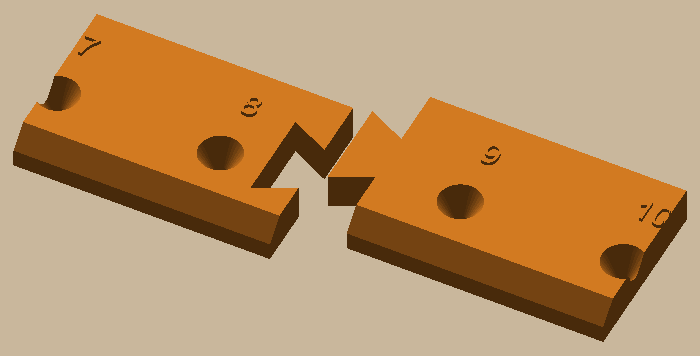
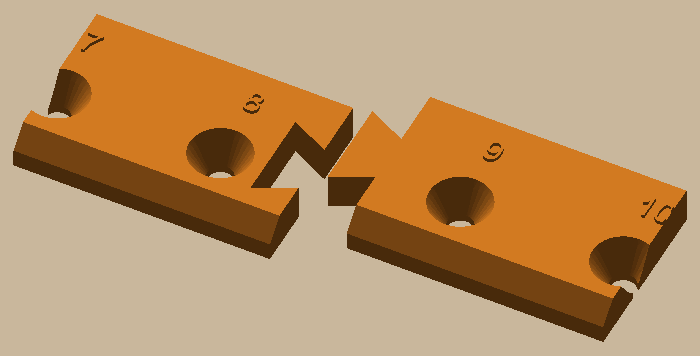
Ceiling gauge 6 mm thick with tight dovetails; pencil holes a nail pokes through, in both jigs
cadkit.shapes.pencil_hole: a 4 mm throat at the work under a guiding cone, shared by the
circle jig and the railroad's ceiling gauge.

diff --git a/examples/near-ceiling-track/tests/test_ceiling_gauge.py b/examples/near-ceiling-track/tests/test_ceiling_gauge.py
@@ -3,7 +3,7 @@ bracket's (and rod anchor's) screws are marked at the same height round the room
 ceiling, "makes easy math", and the screws sit at the top of their slots so a bracket can still go up. The arm is
 longer than the bed, so the T and the arm print apart and join with a glued dovetail."""
 import pytest
-from build123d import Box, Pos
+from build123d import Align, Box, Cylinder, Pos
 
 from cadkit.checks import printable_problems
 from hotrain.params import INCH, P
@@ -22,16 +22,16 @@ def test_holes_mark_both_screws_from_the_ceiling_edge():
     bb = g.bounding_box()
     assert bb.min.X == pytest.approx(0, abs=1e-6)
     assert bb.size.Y == pytest.approx(P.gauge_bar_l, abs=1e-6)  # the T: 4" along the ceiling
-    assert bb.size.Z == pytest.approx(P.gauge_t, abs=1e-6)  # thin
+    assert bb.size.Z == pytest.approx(P.gauge_t, abs=1e-6)
 
     def solid(x, y):
-        return (g & (Pos(x, y, P.gauge_t / 2) * Box(0.2, 0.2, 0.2))).volume > 1e-6
+        return (g & (Pos(x, y, 0.2) * Box(0.2, 0.2, 0.2))).volume > 1e-6  # at the wall, where the mark is made
 
     for x in G.hole_xs(P):
         assert not solid(x, 0)  # the pencil hole
-        assert solid(x + P.gauge_hole_d / 2 + 0.6, 0) and solid(x - P.gauge_hole_d / 2 - 0.6, 0)
+        assert solid(x + P.gauge_throat_d / 2 + 0.6, 0) and solid(x - P.gauge_throat_d / 2 - 0.6, 0)
     assert G.hole_xs(P) == pytest.approx([P.screw_below_ceiling, P.screw_below_ceiling + P.screw_zs[1] - P.screw_zs[0]])
-    assert bb.max.X > G.hole_xs(P)[-1] + P.gauge_hole_d
+    assert bb.max.X > G.hole_xs(P)[-1] + P.gauge_throat_d
 
 
 def test_braces_square_the_t():
@@ -107,3 +107,39 @@ def test_gauge_plate_holds_the_l(tmp_path):
     text = (tmp_path / "ceiling_gauge" / "plates.csv").read_text(encoding="utf-8")
     for name in ("gauge_t", "gauge_corner", "gauge_bar_end"):
         assert name in text
+
+
+def test_stiff_enough_to_hold_in_awkward_spots():
+    """The user, 2026-10-30: the 2.4 mm gauge was "too flimsy to use in awkward positions"; the circle jig (6 mm thick,
+    26 mm wide) is very solid but a lot of plastic, so "same thickness but not as tall". 6 mm is also the bracket
+    flange's thickness, so the hooks hang on screws set for a bracket."""
+    assert P.gauge_t == pytest.approx(P.flange_t)
+    assert P.gauge_bar_w < P.gauge_arm_w < P.gauge_pad_w  # narrower strips than the circle jig's bar
+
+
+@pytest.mark.parametrize("x", G.hole_xs(P))
+def test_a_nail_or_pencil_pokes_through(x):
+    """The user, 2026-10-30: the holes weren't "big enough to actually poke a nail or pencil through". A throat at the
+    wall clears gauge_poke_d with room for holes printing small; a cone above guides the point down to it."""
+    assert P.gauge_throat_d >= P.gauge_poke_d + 0.5
+    c = G.corner_in_gauge(P)
+    assert (c & (Pos(x, 0, P.gauge_t / 2) * Cylinder(P.gauge_poke_d / 2 + 0.25, 2 * P.gauge_t))).volume < 1e-6
+    assert (c & (Pos(x, 0, P.gauge_t - 0.1) * Cylinder(P.gauge_throat_d / 2 + 1.0, 0.1))).volume < 1e-6  # the cone
+
+
+def _gap(region, *pieces):
+    """Empty volume left inside a region the joined pieces should fill."""
+    return region.volume - sum((region & piece).volume for piece in pieces)
+
+
+def test_dovetails_fit_with_no_clearance():
+    """The user, 2026-10-30: "make sure the dove tail has no tolerance so it fits tight" (the circle jig's tab, at 0,
+    holds; the railroad's 0.05 and 0.10 were loose)."""
+    assert P.gauge_fit == 0
+    t, c, e = G.t_in_gauge(P), G.corner_in_gauge(P), G.bar_end_in_gauge(P)
+    a = P.gauge_arm_w / 2 - 0.5
+    joint = Pos(P.gauge_split - 1, -a, 0) * Box(P.gauge_jig_len + 2, 2 * a, P.gauge_t, align=(Align.MIN,) * 3)
+    assert _gap(joint, t, c) < 1e-3
+    x, s = G.hole_xs(P)[0], G.bar_split(P)
+    joint = Pos(x - a, -s - P.gauge_jig_len - 1, 0) * Box(2 * a, P.gauge_jig_len + 2, P.gauge_t, align=(Align.MIN,) * 3)
+    assert _gap(joint, c, e) < 1e-3

diff --git a/examples/near-ceiling-track/hotrain/parts/ceiling_gauge.py b/examples/near-ceiling-track/hotrain/parts/ceiling_gauge.py
@@ -1,4 +1,4 @@
-"""Ceiling gauge: a thin T held against the ceiling, with a pencil hole at each bracket screw line, so every
+"""Ceiling gauge: a T held against the ceiling, with a pencil hole at each bracket screw line, so every
 bracket and rod anchor is marked at the same height round the room. Gauge frame: x down from the ceiling (the T's
 top edge at x = 0), y across, z out of the wall. Longer than the bed, so it prints as the T (bar, braces, a stub)
 and the arm (both holes), joined by a glued dovetail at x = gauge_split.
@@ -10,7 +10,7 @@ bracket's screws. On its own, the arm against the ceiling marks the first bracke
 corner (arm, near half of the bar, a brace) and the bar's end (the hooks)."""
 from build123d import Circle, Part, Pos, Rot, Sketch, extrude
 
-from cadkit.shapes import dovetail
+from cadkit.shapes import dovetail, pencil_hole
 from hotrain.joints import poly, rect
 from hotrain.params import P, Params
 
@@ -29,6 +29,11 @@ def _tab(p: Params, clearance: float = 0.0, x: float | None = None) -> Sketch:
     return dovetail(x, 0, p.gauge_jig_neck, p.gauge_jig_head, p.gauge_jig_len, clearance)
 
 
+def _pencil_holes(p: Params) -> list[Part]:
+    """A throat at the wall a nail or pencil point pokes through, under a cone that guides it down."""
+    return [Pos(x, 0) * pencil_hole(p.gauge_throat_d, p.gauge_throat_h, p.gauge_t) for x in hole_xs(p)]
+
+
 def _brace(p: Params, s: int) -> Sketch:
     """45 degrees from the bar's end (under the bar) to the arm's edge."""
     h, a, w = p.gauge_bar_l / 2, p.gauge_arm_w / 2, p.gauge_brace_w / 2
@@ -45,9 +50,8 @@ def t_in_gauge(p: Params = P) -> Part:
 
 def arm_in_gauge(p: Params = P) -> Part:
     a = p.gauge_arm_w / 2
-    sk = rect(p.gauge_split, _length(p), -a, a) - _tab(p, p.fit_snap)
-    sk -= [Pos(x, 0) * Circle(p.gauge_hole_d / 2) for x in hole_xs(p)]
-    return extrude(sk, p.gauge_t)
+    sk = rect(p.gauge_split, _length(p), -a, a) - _tab(p, p.gauge_fit)
+    return extrude(sk, p.gauge_t) - _pencil_holes(p)
 
 
 def assembled(p: Params = P) -> Part:
@@ -113,16 +117,15 @@ def corner_in_gauge(p: Params = P) -> Part:
     s = bar_split(p)
     tab = Pos(hole_xs(p)[0], -s) * Rot(0, 0, -90) * dovetail(0, 0, p.gauge_jig_neck, p.gauge_jig_head, p.gauge_jig_len)
     sk = Sketch() + [rect(p.gauge_split, _length(p), -a, a), _l_brace(p), _l_bar(p) & rect(0, _length(p), -s, a), tab]
-    sk -= _tab(p, p.fit_snap)
-    sk -= [Pos(x, 0) * Circle(p.gauge_hole_d / 2) for x in hole_xs(p)]
-    return extrude(sk, p.gauge_t)
+    sk -= _tab(p, p.gauge_fit)
+    return extrude(sk, p.gauge_t) - _pencil_holes(p)
 
 
 def bar_end_in_gauge(p: Params = P) -> Part:
     """The far half of the bar, with both hooks."""
     s = bar_split(p)
     sock = Pos(hole_xs(p)[0], -s) * Rot(0, 0, -90) * dovetail(0, 0, p.gauge_jig_neck, p.gauge_jig_head,
-                                                               p.gauge_jig_len, p.fit_snap)
+                                                               p.gauge_jig_len, p.gauge_fit)
     return extrude((_l_bar(p) & rect(0, _length(p), -1000, -s)) - sock, p.gauge_t)
 
 

diff --git a/examples/near-ceiling-track/hotrain/params.py b/examples/near-ceiling-track/hotrain/params.py
@@ -129,18 +129,21 @@ class Params:
     screw_travel: float = 0.25 * INCH  # ± vertical adjustment
     screw_zs: tuple = (15.0, 65.0)  # below tie underside
 
-    # ceiling gauge: a thin T against the ceiling with a pencil hole at each screw line
+    # ceiling gauge: a T against the ceiling with a pencil hole at each screw line
     gauge_bar_l: float = 4 * INCH  # the T's bar, along the ceiling
-    gauge_bar_w: float = 8.0
-    gauge_arm_w: float = 10.0
-    gauge_brace_w: float = 5.0  # two 45-degree braces square the bar to the arm
-    gauge_t: float = 2.4  # thin: it only has to lie flat on the wall
-    gauge_hole_d: float = 2.2  # a pencil tip reaches the wall through it
+    gauge_bar_w: float = 12.0
+    gauge_arm_w: float = 14.0  # about half the circle jig's 26 mm: stiff without its plastic
+    gauge_brace_w: float = 8.0  # two 45-degree braces square the bar to the arm
+    gauge_t: float = 6.0  # the circle jig's thickness (2.4 was flimsy), and the flange's: hooks on bracket screws
+    gauge_poke_d: float = 3.3  # what has to poke through a pencil hole: a nail's shank, or a pencil's sharpened tip
+    gauge_throat_d: float = 4.0  # the pencil hole at the wall: gauge_poke_d passes, with room for holes printing small
+    gauge_throat_h: float = 1.2  # then a cone (30 degrees off vertical) guides the point down to it
     gauge_tail: float = 8.0  # arm past the lower hole
     gauge_split: float = 80.0  # the T piece ends here (the whole gauge is longer than the bed)
-    gauge_jig_neck: float = 4.0  # dovetail joining the arm to the T, glued
-    gauge_jig_head: float = 6.5
-    gauge_jig_len: float = 5.0
+    gauge_jig_neck: float = 6.0  # dovetails joining the three pieces, glued
+    gauge_jig_head: float = 9.5
+    gauge_jig_len: float = 7.0
+    gauge_fit: float = 0.0  # no clearance: tight, like the circle jig's tab (0.05 was loose)
     gauge_pad_w: float = 24.0  # the spacing bar's ends: room for the keyhole, and for the pencil slots
     gauge_pencil_l: float = 18.0  # pencil slots across the spacing bar: draw the next screw's line through one
     latch_top: float = 8.5  # below tie underside

diff --git a/cadkit/cadkit/shapes.py b/cadkit/cadkit/shapes.py
@@ -1,7 +1,7 @@
 """2D profile helpers. Flat-printed parts are profiles extruded to a thickness, so most geometry starts here."""
 import math
 
-from build123d import Align, Helix, Kind, Part, Plane, Polygon, Pos, Rectangle, Sketch, offset, sweep
+from build123d import Align, Cone, Cylinder, Helix, Kind, Part, Plane, Polygon, Pos, Rectangle, Sketch, offset, sweep
 
 
 def poly(*pts: tuple) -> Sketch:
@@ -32,6 +32,16 @@ def dovetail(x: float, y: float, neck: float, head: float, length: float, cleara
     """Jigsaw tab with its neck on x, widening toward +x. Joins long flat parts end to end."""
     n, h = neck / 2, head / 2
     return grow(poly((x - 0.01, y - n), (x + length, y - h), (x + length, y + h), (x - 0.01, y + n)), clearance)
+
+
+def pencil_hole(throat_d: float, throat_h: float, t: float, sink_deg: float = 30.0) -> Part:
+    """Hole through a flat part t thick, to cut at each mark: a throat throat_d across at the bottom (the bed side,
+    against the work) where a pencil point or a nail comes through on the mark, and a cone above it, sink_deg off
+    vertical, guiding the point down to it. Centred on the origin, a hair past both faces."""
+    top = throat_d / 2 + (t - throat_h + 0.01) * math.tan(math.radians(sink_deg))
+    throat = Cylinder(throat_d / 2, throat_h + 0.01, align=(Align.CENTER, Align.CENTER, Align.MIN))
+    cone = Pos(0, 0, throat_h) * Cone(throat_d / 2, top, t - throat_h + 0.01, align=(Align.CENTER, Align.CENTER, Align.MIN))
+    return Pos(0, 0, -0.005) * (throat + cone)
 
 
 def thread(radius: float, depth: float, pitch: float, length: float, crest: float = 0.5, inward: bool = False,

diff --git a/cadkit/tests/test_pencil_hole.py b/cadkit/tests/test_pencil_hole.py
@@ -1,0 +1,33 @@
+"""pencil_hole: a hole a pencil point or a nail goes right through, to mark what's under a flat jig. A throat at the
+bottom sets the mark's centre; a cone above it guides the point down (both the circle jig and the railroad's ceiling
+gauge use it)."""
+import math
+
+import pytest
+from build123d import Box, Cylinder, Pos
+
+from cadkit.shapes import pencil_hole
+
+
+def _open(hole, r, z):
+    """Is the hole open a radius r out from its axis at height z?"""
+    return (hole & (Pos(r, 0, z) * Box(0.05, 0.05, 0.05))).volume > 1e-9
+
+
+def test_throat_then_cone_through_the_whole_thickness():
+    d, h, t, deg = 4.0, 1.2, 6.0, 30.0
+    hole = pencil_hole(d, h, t, deg)
+    bb = hole.bounding_box()
+    assert bb.min.Z < 0 and bb.max.Z > t  # cuts clean through both faces
+    for z in (0.1, h - 0.1):  # the throat: straight, d across
+        assert _open(hole, d / 2 - 0.1, z) and not _open(hole, d / 2 + 0.1, z)
+    top = d / 2 + (t - h) * math.tan(math.radians(deg))
+    assert _open(hole, top - 0.1, t - 0.05) and not _open(hole, top + 0.2, t - 0.05)
+
+
+def test_cut_from_a_plate_leaves_one_solid():
+    plate = Pos(0, 0, 3) * Box(20, 20, 6.0)
+    cut = plate - pencil_hole(4.0, 1.2, 6.0)
+    assert len(cut.solids()) == 1
+    assert cut.volume == pytest.approx(plate.volume - (plate & pencil_hole(4.0, 1.2, 6.0)).volume)
+    assert (cut & Cylinder(1.9, 6.0)).volume < 1e-6  # nothing left in the throat's line

diff --git a/examples/circle-jig/circle_jig/parts.py b/examples/circle-jig/circle_jig/parts.py
@@ -8,9 +8,10 @@ The bar is longer than the bed, so it prints as a hub piece (the arms and the ba
 straight extension, butted at split_x; a dovetail tab on the extension's end drops into the hub from above."""
 import math
 
-from build123d import Align, Box, Cone, Cylinder, Part, Plane, Polygon, Pos, Rot, Sketch, Text, extrude
+from build123d import Align, Box, Cylinder, Part, Plane, Polygon, Pos, Rot, Sketch, Text, extrude
 
 from cadkit.plates import Plate
+from cadkit import shapes
 from cadkit.shapes import dovetail, rect
 
 from circle_jig.params import P, Params
@@ -30,10 +31,7 @@ def bevel(p: Params, length: float) -> Part:
 
 def pencil_hole(p: Params) -> Part:
     """Throat at the bottom for the point, a cone above it guiding the pencil down to it."""
-    throat = Cylinder(p.throat_d / 2, p.throat_h + 0.01, align=(Align.CENTER, Align.CENTER, Align.MIN))
-    cone = Pos(0, 0, p.throat_h) * Cone(p.throat_d / 2, p.sink_r + 0.01 * math.tan(math.radians(p.sink_deg)),
-                                        p.t - p.throat_h + 0.01, align=(Align.CENTER, Align.CENTER, Align.MIN))
-    return Pos(0, 0, -0.005) * (throat + cone)
+    return shapes.pencil_hole(p.throat_d, p.throat_h, p.t, p.sink_deg)
 
 
 def jig(p: Params = P) -> Part:

diff --git a/examples/circle-jig/circle_jig/params.py b/examples/circle-jig/circle_jig/params.py
@@ -16,8 +16,9 @@ class Params:
     bar_end: float = 10.0  # bar runs on this far past the last pencil hole
     pivot_d: float = 4.5  # the screw it turns on (#8 wood screw, 4.2 mm shank)
     hole_off: float = 10.0  # pencil holes sit this far in from the bar's straight edge
-    throat_d: float = 2.0  # pencil tip pokes through this at the bottom, so the point sits on the hole's centre
-    throat_h: float = 2.0
+    poke_d: float = 3.3  # what has to poke through a pencil hole: a nail's shank, or a pencil's sharpened tip
+    throat_d: float = 4.0  # the hole at the bottom: poke_d passes, with room for holes printing small
+    throat_h: float = 1.2
     sink_deg: float = 30.0  # from vertical: the cone above the throat that guides a sharpened pencil down
     bevel: float = 3.0  # straight edges bevelled on top (like a ruler) so the line shows right at the edge
     label_size: float = 5.0  # raised inch numbers beside the holes

diff --git a/examples/circle-jig/tests/test_jig.py b/examples/circle-jig/tests/test_jig.py
@@ -143,3 +143,12 @@ def test_slicer_prints_each_plate_in_one_filament(tmp_path, plate):
     assert s.same_objects(project, s.roundtrip(project, tmp_path / "rt.3mf"))
     report = s.slice_report(project, tmp_path / "s.3mf")
     assert {f for layer in report["layers"] for f in layer[0]} == {P.filament}
+
+
+def test_a_nail_or_pencil_pokes_through_every_hole(part):
+    """The user, 2026-10-30: the hole "isn't big enough to actually poke a nail or pencil through". The throat at the
+    bottom clears poke_d with room for holes printing a bit small."""
+    assert P.throat_d >= P.poke_d + 0.5
+    x = P.hole_x(P.radii[0])
+    a, b = sorted(pieces(part, x - 8, x + 8, P.hole_off - 0.05, P.hole_off + 0.05), key=lambda bb: bb.min.X)
+    assert b.min.X - a.max.X >= P.poke_d + 0.5

diff --git a/examples/near-ceiling-track/README.md b/examples/near-ceiling-track/README.md
@@ -76,10 +76,10 @@ A whole-room file takes a few minutes to translate.
   - `uv run python -m hotrain.build latch-test` writes a small latch coupon: three latches with the hook at
     1.0/1.2/1.4 mm (1-3 notches; the brackets use 1.4) and two pier stubs. Pick the one that clicks, holds, and
     can still be unlatched by bending the bracket back gently.
-  - `uv run python -m hotrain.build ceiling-gauge` writes the L gauge: a thin T against the ceiling, an arm with a
-    pencil hole at each bracket screw line (10" and 10" + 50 mm down), and a bar out to two hooks one bay along
+  - `uv run python -m hotrain.build ceiling-gauge` writes the L gauge (6 mm thick, 45 g): a T against the ceiling, an
+    arm with a pencil hole (a pencil or nail pokes through) at each bracket screw line (10" and 10" + 50 mm down), and a bar out to two hooks one bay along
     (418 mm: 1 notch, 443 mm: 2 notches). Hook it on the last bracket's top screw, push the T to the ceiling, and
-    mark the next bracket's two screws. Glue its three pieces at the dovetails.
+    mark the next bracket's two screws. Its three pieces press together at tight dovetails; glue them.
   - `uv run python -m hotrain.build cf-clip-test` writes three cross-frame clips with slots 0.15/0.10/0.05 mm
     narrower than the panel, a press fit (1-3 notches; the cross-frames use 0.10). Push each up onto a printed bay's
     panels at a post: pick the one that grips firmly but still goes on, then set `fit_cf`.

diff --git a/examples/near-ceiling-track/docs/specs/2026-10-13-deck-truss-design.md b/examples/near-ceiling-track/docs/specs/2026-10-13-deck-truss-design.md
@@ -287,3 +287,15 @@ plates and packing, and the bus cradle.
   the L gauge's hooks. The stems, crossbars, screw lines and marks are unchanged.
 - The three brackets already printed with the old vertical slots get reprinted with keyholes (the user: "not that
   big a deal, its only 3").
+
+## Amendments (2026-10-30): a stiffer ceiling gauge
+
+- The user: the 2.4 mm gauge is the right length but "too flimsy to use in awkward positions"; the circle jig is
+  "very solid" but a lot of plastic, so "same thickness but not as tall". The gauge is now 6 mm thick (the circle
+  jig's, and the bracket flange's, so the hooks hang on screws set for a bracket) with strips about half the circle
+  jig's 26 mm: the arm and bar 14 mm, the T's bar 12, the braces 8. 45 g (was 22; the circle jig is 60).
+- The pencil holes were too small "to actually poke a nail or pencil through": each is now a 4 mm throat at the
+  wall (`gauge_throat_d`, clearing a 3.3 mm nail shank or pencil tip with room for holes printing small) under a
+  cone that guides the point down to it (`cadkit.shapes.pencil_hole`, shared with the circle jig).
+- The dovetails are bigger (6 mm neck, 9.5 head, 7 long) and have no clearance (`gauge_fit` 0, was `fit_snap`
+  0.05): "make sure the dove tail has no tolerance so it fits tight".

diff --git a/examples/circle-jig/README.md b/examples/circle-jig/README.md
@@ -8,8 +8,8 @@ It turns on a screw at the centre; a pencil in one of the holes draws the circle
 each have one straight edge that lies exactly on a line through the screw (bevelled on top like a ruler, so you see
 the line right at the edge), a quarter turn apart.
 
-- Pencil holes every inch from 2" to 20", numbered by **inches from the screw** (the radius). A sharp pencil (or a
-  0.5 mm mechanical one) drops down the cone onto the hole's centre.
+- Pencil holes every inch from 2" to 20", numbered by **inches from the screw** (the radius). A pencil (or a
+  nail) drops down the cone and pokes through the 4 mm hole at the bottom, onto the hole's centre.
 - Pivot: a #8 wood screw (4.5 mm hole), not tightened, so the jig turns on it.
 - Two pieces, 518 mm from the screw to the bar's end: the **hub** (arms and the bar to the 8" hole: on its own it
   draws up to 8") and the **extension** (9" to 20"), butted between the 8 and 9 holes. A dovetail tab on the

diff --git a/examples/circle-jig/docs/specs/circle-jig.md b/examples/circle-jig/docs/specs/circle-jig.md
@@ -33,3 +33,8 @@ quarter lines, "or slightly offset so I can use it as a straight edge".
   to about 20.5"; holes 2" to 20". The loose key became half a bow-tie: a dovetail tab on the extension's end
   (8 mm neck, 14 mm head, 6 mm long, `fit_tab` 0) dropped into a socket in the hub. The seam stays midway between
   the 8 and 9 holes. Still glued against a straightedge.
+- 2026-10-30: **bigger pencil holes** (the user: not "big enough to actually poke a nail or pencil through"). The
+  throat at the bottom is 4 mm (was 2), clearing `poke_d` (3.3 mm: a nail's shank or a sharpened pencil) with room
+  for holes printing small, and 1.2 mm tall (was 2), so more of the point comes through. The cone above it still
+  guides the point to the centre. The hole is now `cadkit.shapes.pencil_hole`, shared with the railroad's ceiling
+  gauge.
